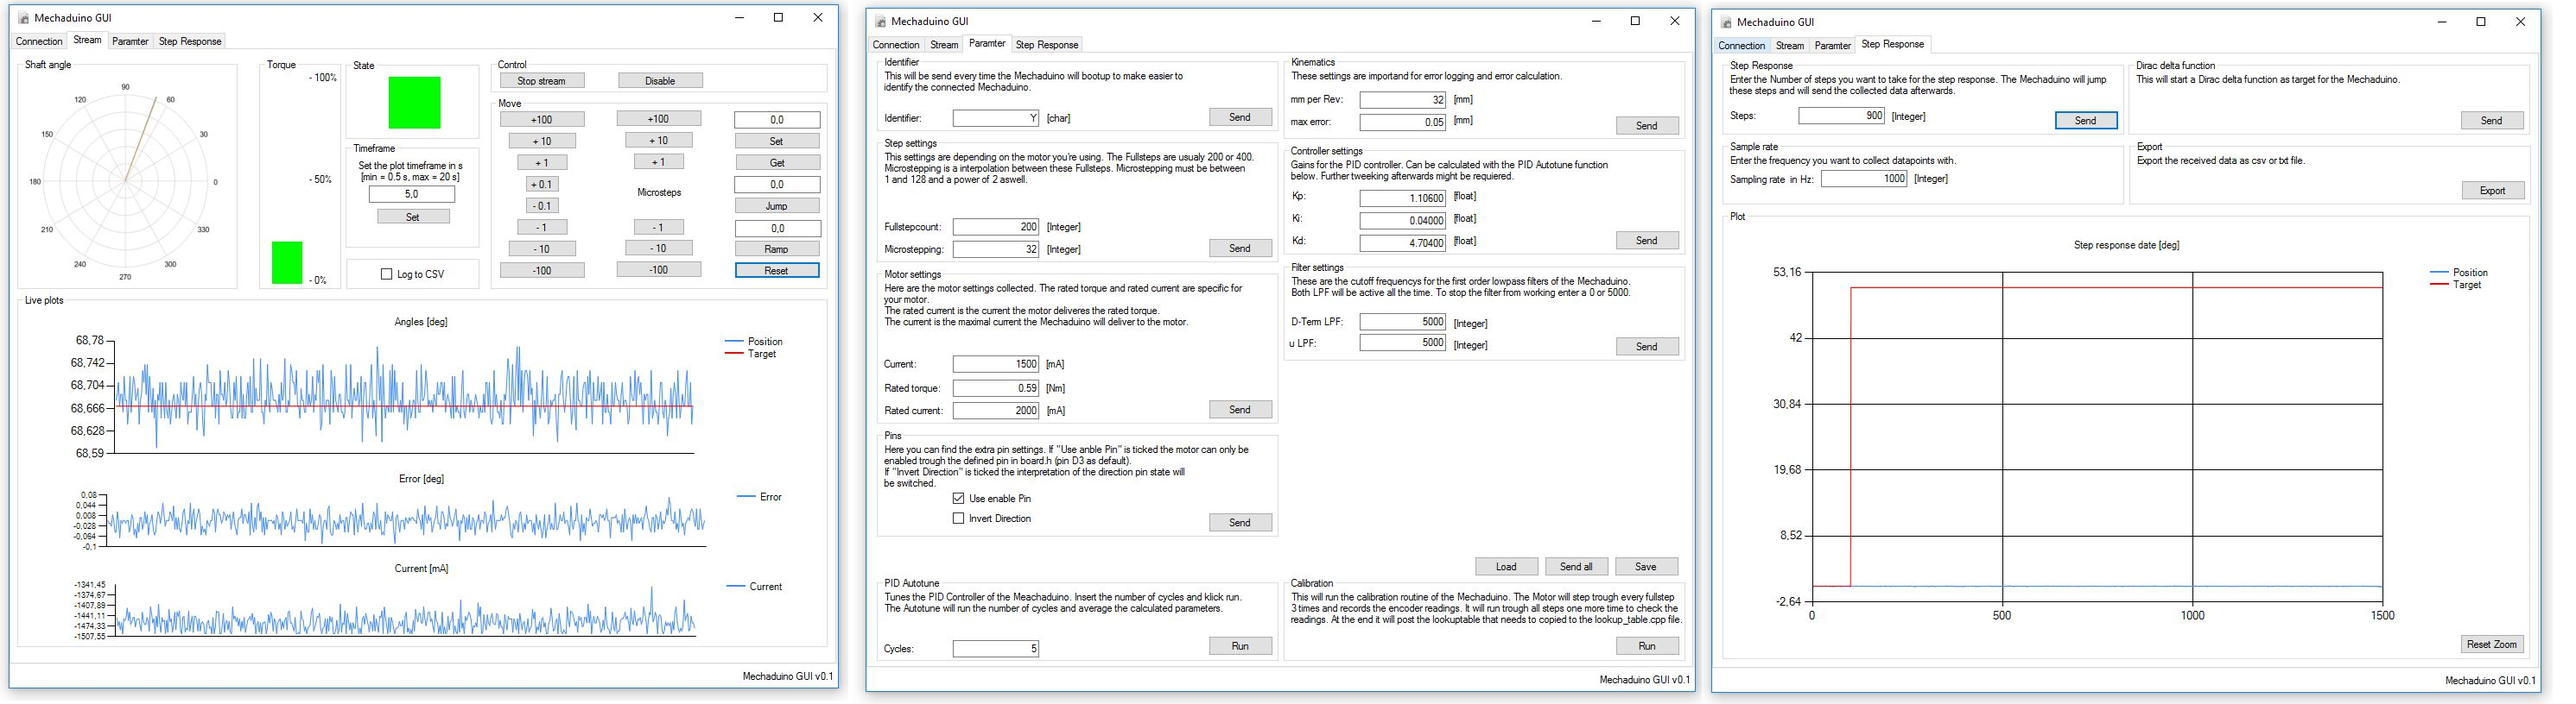
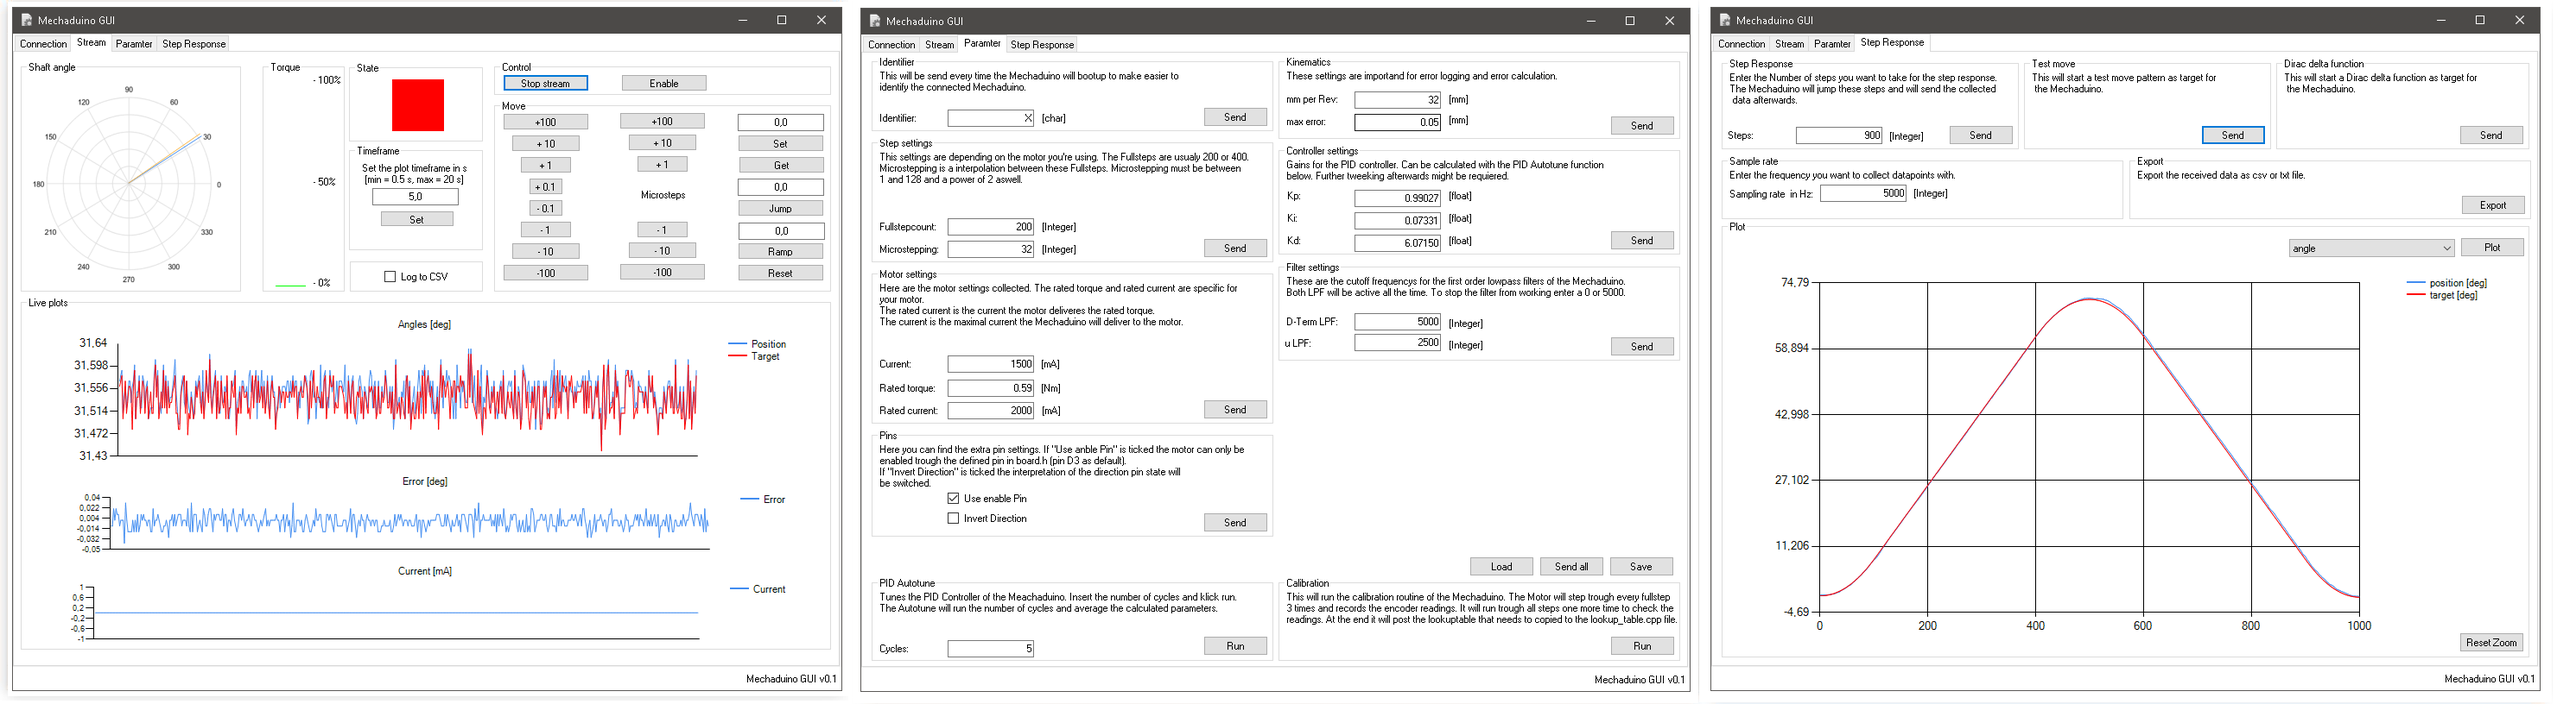
Readme update

diff --git a/GUI/README.md b/GUI/README.md
@@ -1,7 +1,7 @@
 # Windows GUI
-![image](https://github.com/Kaiwol1990/Mechaduino/blob/dev/images/GUI.png)
+![image](images/GUI.png)
 - Live view/stream motor parameter (angle, error, effort, ...)
-- generate and analyze a step response with different sampling rates
+- generate and analyze different test moves with different sampling rates (step response, dirac delta function, ...)
 - change parameters without the need of serial commands
 - generate a configuration file 
 - Log streamed motor parameter as txt or csv file

diff --git a/README.md b/README.md
@@ -65,7 +65,7 @@ To get an list of the possible commands send help over the serial monitor
 # Windows GUI
 ![image](images/GUI.png)
 - Live view/stream motor parameter (angle, error, effort, ...)
-- generate and analyze a step response with different sampling rates
+- generate and analyze different test moves with different sampling rates (step response, dirac delta function, ...)
 - change parameters without the need of serial commands
 - generate a configuration file 
 - Log streamed motor parameter as txt or csv file
